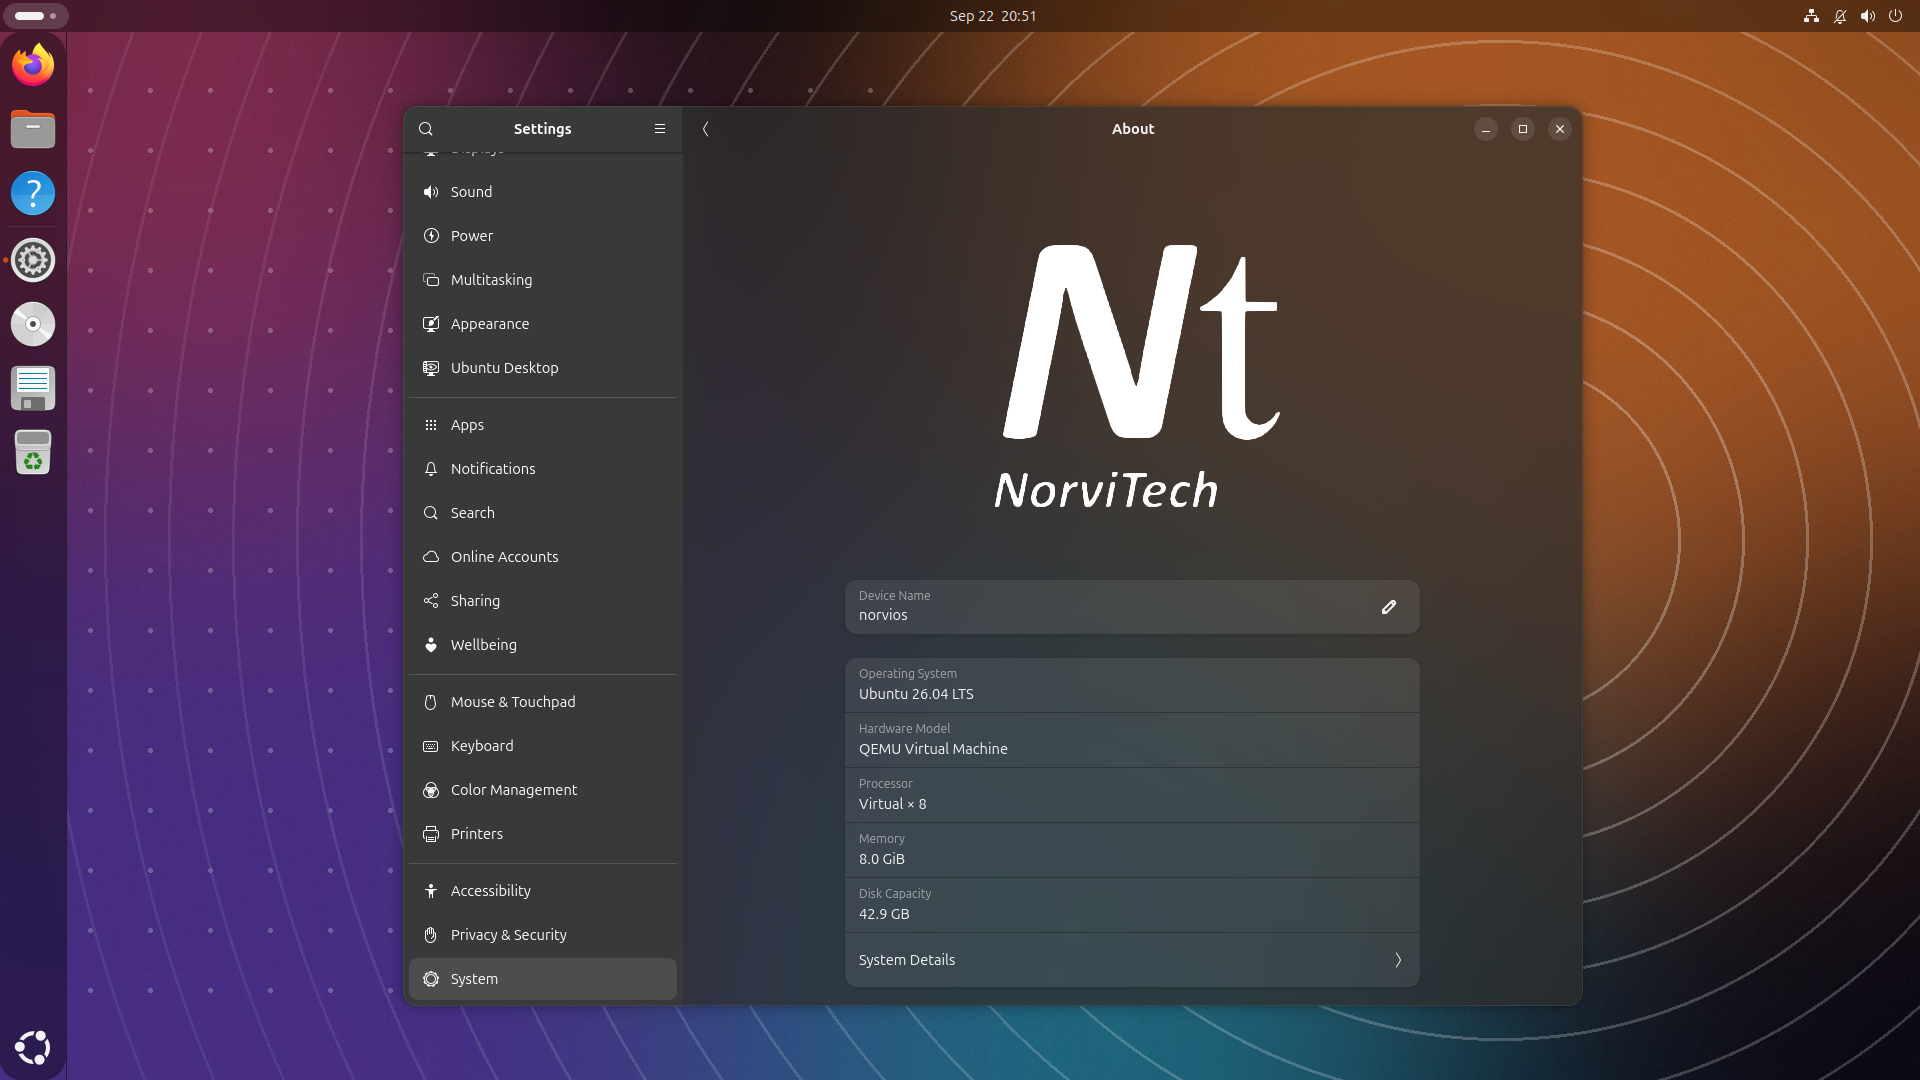
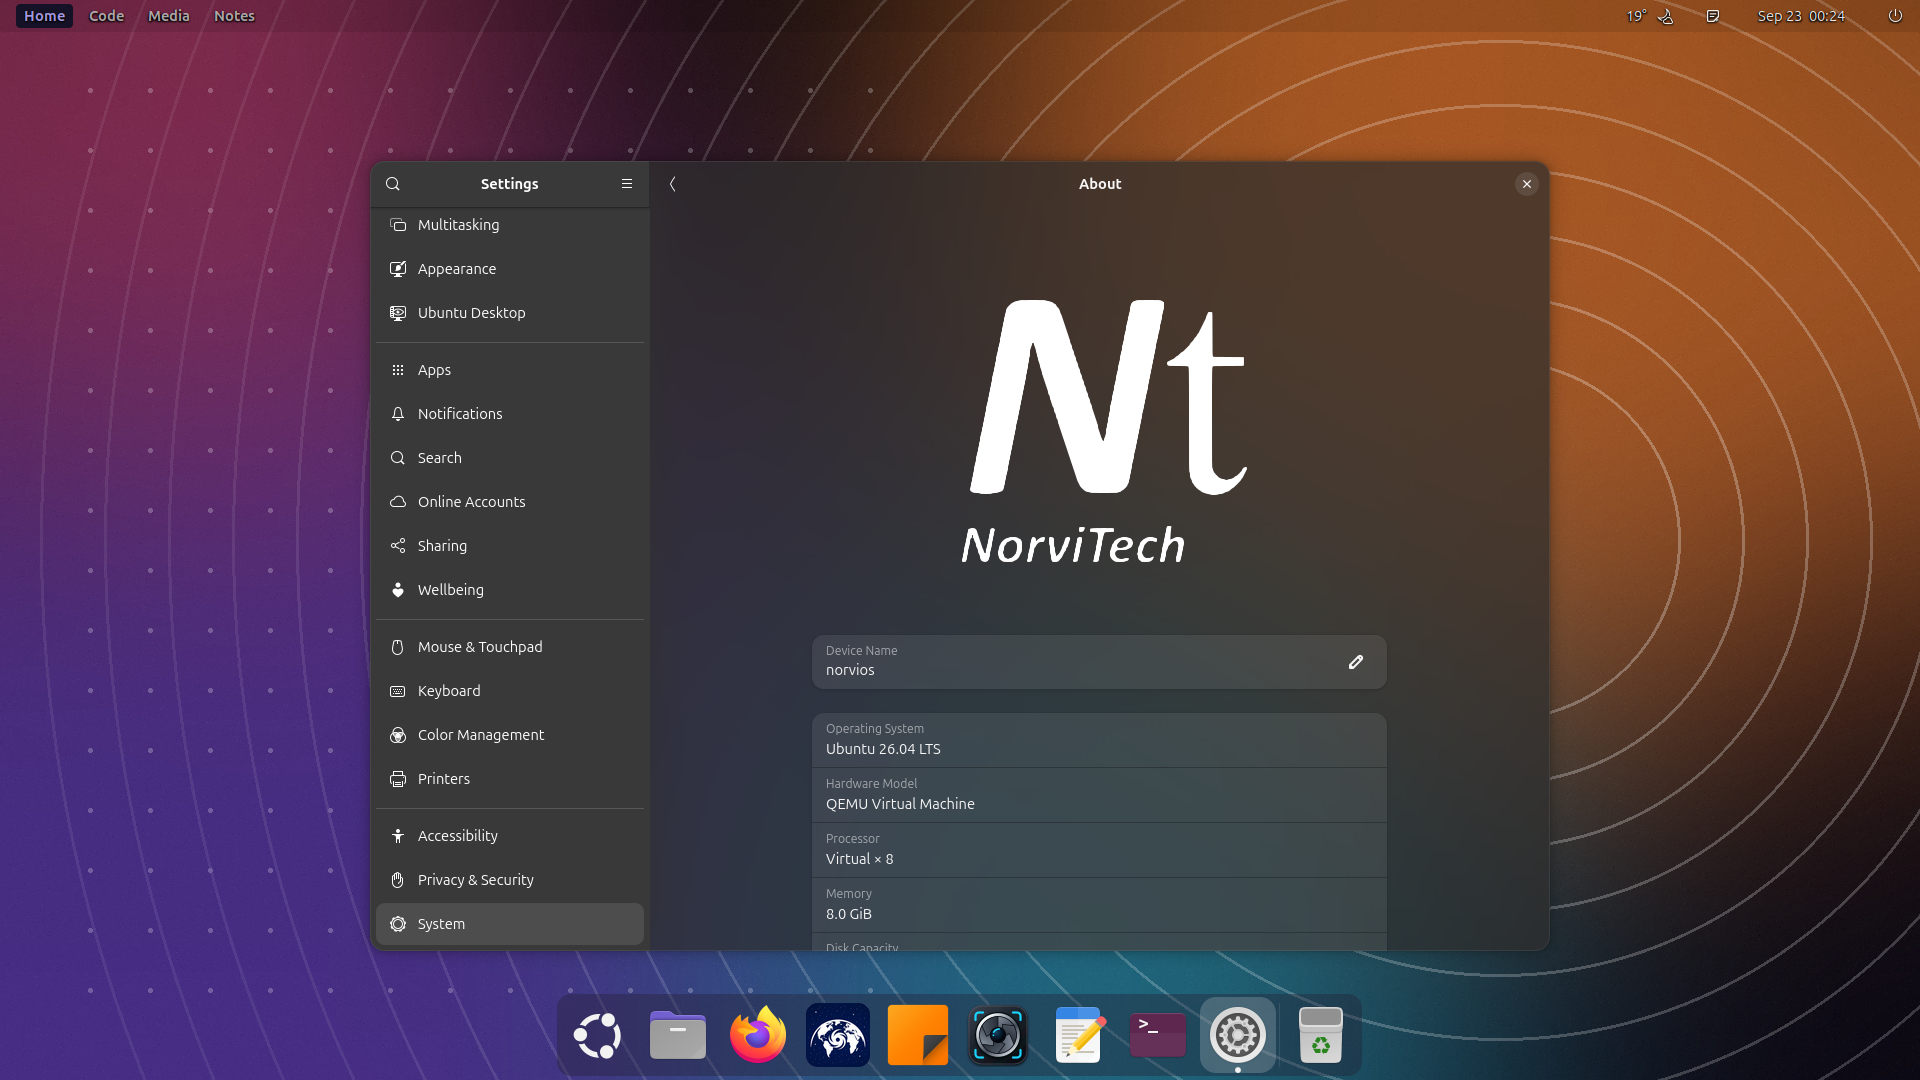
Release v1.3.4
Public-Release-Metadata: {"allow":[],"baseline":"","github":"spencercnorton/norvi-os","include":[".github/CODEOWNERS",".github/FUNDING.yml",".github/ISSUE_TEMPLATE/",".github/PULL_REQUEST_TEMPLATE.md",".github/workflows/","CHANGELOG.md","CODE_OF_CONDUCT.md","CONTRIBUTING.md","LICENSE","NOTICE","README.md","SECURITY.md","SUPPORT.md","assets/norvitech-logo-color-380.png","assets/norvitech-logo-color.svg","assets/norvitech-logo-dark-380.png","assets/norvitech-logo-dark.svg","assets/norvitech-logo-light-380.png","assets/norvitech-logo-light.svg","assets/preview-variants.png","desktop/","docs/","gdm/norvitech-gdm-logo.svg","install.sh","plymouth/","uninstall.sh"],"pinned":{"assets/norvitech-logo-color-380.png":"sha256:63e75ad5ca656fbffcb47462a2d36b8c16ca961b4c97d08395e526fcfac5924f","assets/norvitech-logo-dark-380.png":"sha256:de863bb8b4d53404107b463586860ef509fb7705a9efdad2217013532cdfa97a","assets/norvitech-logo-light-380.png":"sha256:c132e46b11dd2e1a3f34f809787558dfae724776ca0a4abd4db8074e5f7547f8","assets/preview-variants.png":"sha256:78f50f61d11fa6dbbf1fcb1d4d0927cfbeba9542b7243921739f4c89b6ca704c","docs/screenshots/about-dark.png":"sha256:405846204d370e66c033de970671d80004a049a694bef859d9ff9a7949080bc5","docs/screenshots/about-light.png":"sha256:12ddc52bf184f708985559c8385a59283be7e3b1426cadd5c24845b9c1c019c8","docs/screenshots/boot.png":"sha256:915d5ff7ad7b4e08cf0068eedff335e0edc86e27f024bed50b382849f752c50e","docs/screenshots/desktop.png":"sha256:49af869819969ab82ea271
[…]

diff --git a/README.md b/README.md
@@ -15,13 +15,10 @@
 </p>
 
 <p align="center">
-  <picture>
-    <source media="(prefers-color-scheme: dark)" srcset="docs/screenshots/about-dark.png">
-    <img alt="GNOME Settings open at About on an Ubuntu 26.04 desktop, showing the NorviTech logo in place of Ubuntu's, with the window's content pane rendered as frosted glass over a blurred wallpaper." src="docs/screenshots/about-light.png" width="900">
-  </picture>
+  <img alt="The NorviOS desktop on Ubuntu 26.04: a transparent top bar with named workspaces on the left and the weather and clock on the right, three sticky notes pinned to the right edge, a Files window rendered as frosted glass, and a centred dock with a blurred plate at the bottom." src="docs/screenshots/desktop.png" width="900">
 </p>
 
-Captured on a fresh Ubuntu 26.04 virtual machine with a demo account and a plain gradient wallpaper; nothing personal.
+Every screenshot here was captured on a fresh Ubuntu 26.04 virtual machine with a demo account, a generated wallpaper and invented notes; nothing personal.
 
 NorviOS is the desktop the NorviTech apps are built on: stock Ubuntu 26.04 LTS
 with GNOME 50 on Wayland, rebranded from the first boot frame and restyled so
@@ -47,6 +44,13 @@ a light and a dark variant, replaces Ubuntu's two logo files through local
   <img alt="The Ubuntu login screen with the white NorviTech mark at the bottom in place of Ubuntu's logo." src="docs/screenshots/login.png" width="445">
 </p>
 
+<p align="center">
+  <picture>
+    <source media="(prefers-color-scheme: dark)" srcset="docs/screenshots/about-dark.png">
+    <img alt="GNOME Settings open at About, showing the NorviTech logo where Ubuntu's would be, in the NorviOS desktop." src="docs/screenshots/about-light.png" width="700">
+  </picture>
+</p>
+
 **Turns GTK windows to glass.** A per-user GTK3 and GTK4 stylesheet stops
 each window painting its background at full opacity, and
 [Blur my Shell](https://extensions.gnome.org/extension/3193/blur-my-shell/)
@@ -61,6 +65,48 @@ before changing it — a stylesheet you already had, your Blur my Shell
 settings, the blacklist entries it adds — and `--uninstall` puts back exactly
 that, and nothing that was yours.
 
+### The desktop around it
+
+The screenshots show the whole NorviOS desktop, not just what this repository
+installs. The rest is a set of GNOME Shell extensions, most of them
+NorviTech's own and several of them forks, which are **not published yet**:
+each needs its own licence and code review first. Until then this is what they
+are, so nothing on this page is a mystery.
+
+| On screen | Extension | Origin |
+|---|---|---|
+| The dock, centred at the bottom, blurred, and the app launcher that opens from it, with drawers you create from a right-click | XDock | NorviTech fork of [Dash to Dock](https://github.com/micheleg/dash-to-dock) |
+| The blur behind the dock, menus and windows, with rounded corners | Blur my Shell (Norvi build) and gnome-rounded-blur | Fork of [Blur my Shell](https://github.com/aunetx/blur-my-shell); the rounded-blur library is in the APT repository |
+| Named workspaces on the left of the top bar | Space Bar | Fork of [Space Bar](https://github.com/christopher-l/space-bar) |
+| The top bar that turns transparent over the desktop | Transparent Top Bar | Fork of [Transparent Top Bar](https://github.com/lamarios/gnome-shell-extension-transparent-top-bar) |
+| The weather in the top bar and its forecast panel | GEweather | NorviTech fork of [SimpleWeather](https://github.com/romanlefler/SimpleWeather) |
+| The clock on the right of the top bar | Move Clock | [Third-party](https://extensions.gnome.org/extension/2/move-clock/), unchanged |
+| A system menu that shows only the power button | Power-only Quick Settings | NorviTech |
+| The large clock and weather on the lock screen | Lock Screen Suite | NorviTech |
+| Per-monitor wallpapers and rotation | Wallpaper Suite | NorviTech |
+| Sticky notes that come back where you left them | [XNote](https://github.com/spencercnorton/xnote) and [XNote Placement](https://github.com/spencercnorton/xnote-placement) | NorviTech, published |
+
+<p align="center">
+  <img alt="The dock's app launcher: clicking the first dock button opens a panel with the user's name, a search field and recently used apps; All Apps fills the grid, and typing note narrows it to XNote and Text Editor before the panel closes." src="docs/screenshots/launcher.png" width="900">
+</p>
+
+<p align="center">
+  <img alt="Making a drawer in the launcher: right-clicking All Apps offers New Drawer, the name Writing is typed into the sidebar, Text Editor and XNote are dragged onto the new Writing drawer, and opening it shows just those two apps." src="docs/screenshots/drawers.png" width="600">
+</p>
+
+<p align="center">
+  <img alt="Clicking through the named workspaces in the top bar: Home with the Files window and notes, Code with a text editor, Media with an empty music folder, then back to Home. Occupied workspaces are bright, empty ones dim." src="docs/screenshots/workspaces.png" width="900">
+</p>
+
+<p align="center">
+  <img alt="The weather panel open from the top bar: current conditions, a seven-day forecast and details, on a blurred rounded menu, with its data sources credited." src="docs/screenshots/weather.png" width="445">
+  <img alt="The system menu open from the power button: volume, network, power mode, dark style and do not disturb, on the same blurred rounded material." src="docs/screenshots/quick-settings.png" width="445">
+</p>
+
+<p align="center">
+  <img alt="The NorviOS lock screen: a large clock with seconds, the date, and the current weather over a softened wallpaper." src="docs/screenshots/lock-screen.png" width="700">
+</p>
+
 **Sits under the NorviTech desktop apps**, each of which is its own
 repository:
 
@@ -71,8 +117,6 @@ repository:
 | [XNote Placement](https://github.com/spencercnorton/xnote-placement) | A GNOME Shell extension that puts each XNote note back where you left it |
 | [SnipSnap](https://github.com/spencercnorton/snipsnap) | Screenshot any region of any monitor on GNOME Wayland |
 
-The dock, workspace bar, wallpaper and weather extensions that complete the
-desktop are not published yet.
 
 ## Install
 

diff --git a/CHANGELOG.md b/CHANGELOG.md
@@ -2,6 +2,34 @@
 
 All notable changes to NorviOS are documented here.
 
+## 1.3.4 — 2026-09-23
+
+- The README shows how to make a drawer in the launcher: right-click, New
+  Drawer, name it, drag apps onto it.
+
+## 1.3.3 — 2026-09-23
+
+- The README shows XDock's app launcher — opening it from the dock, All Apps,
+  and search — which the earlier screenshots left out.
+
+## 1.3.2 — 2026-09-23
+
+- The workspace-switching animation shows the same glass Files window on
+  every workspace. Its Media workspace had opened an empty folder, and GNOME's
+  "Folder is Empty" page paints its own opaque background, so it looked like a
+  different theme.
+
+## 1.3.1 — 2026-09-22
+
+- The screenshots now show the whole NorviOS desktop — XDock, the Space Bar
+  workspaces, Transparent Top Bar, GEweather, the lock screen and the
+  power-only system menu — instead of a stock Ubuntu desktop with this
+  repository's branding on it. All were captured on a fresh Ubuntu 26.04
+  virtual machine with nothing personal in them.
+- The README names every extension on screen, says which are forks and of
+  what, and says plainly that they are not published yet.
+- No installer or stylesheet changed.
+
 ## 1.3.0 — 2026-09-22
 
 - First public release, on GitHub, under the name NorviOS.
